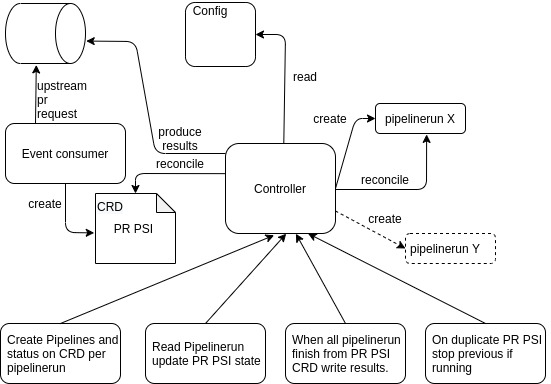
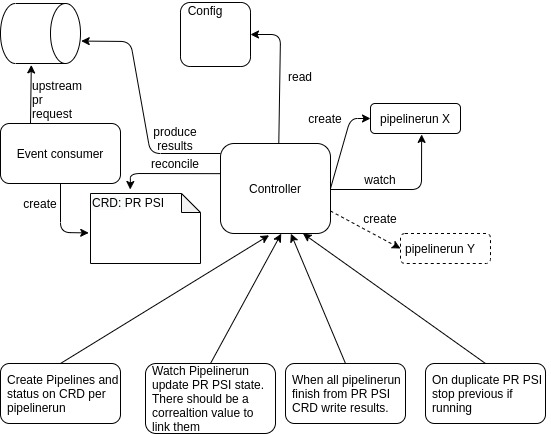
Updated diagrams + README description

diff --git a/README.md b/README.md
@@ -1,7 +1,8 @@
 # psi-operator
 
-The psi-operator is a highly opinionated test workflow execution engine that knows about internal infrastructure. Is main purpose is to handle testing pipelines executions 
-on internal infrastructure based on events. Based on the same principle the outcome of the executions will be communicated based on events. 
+The psi-operator is a highly opinionated pipeline integrator. Its main purpose is to operate/manage the pipeline executions on PSI.    
+The initial use case covered by this solution is to cover a gap space for specific test results on upstream vs downstream. So this communication
+is based on aync messages, as so the initial idea is to integrate the async comunnication within the operator.  
 
 The operator is based on tekton pipelines / openshift pipelines. 
 
